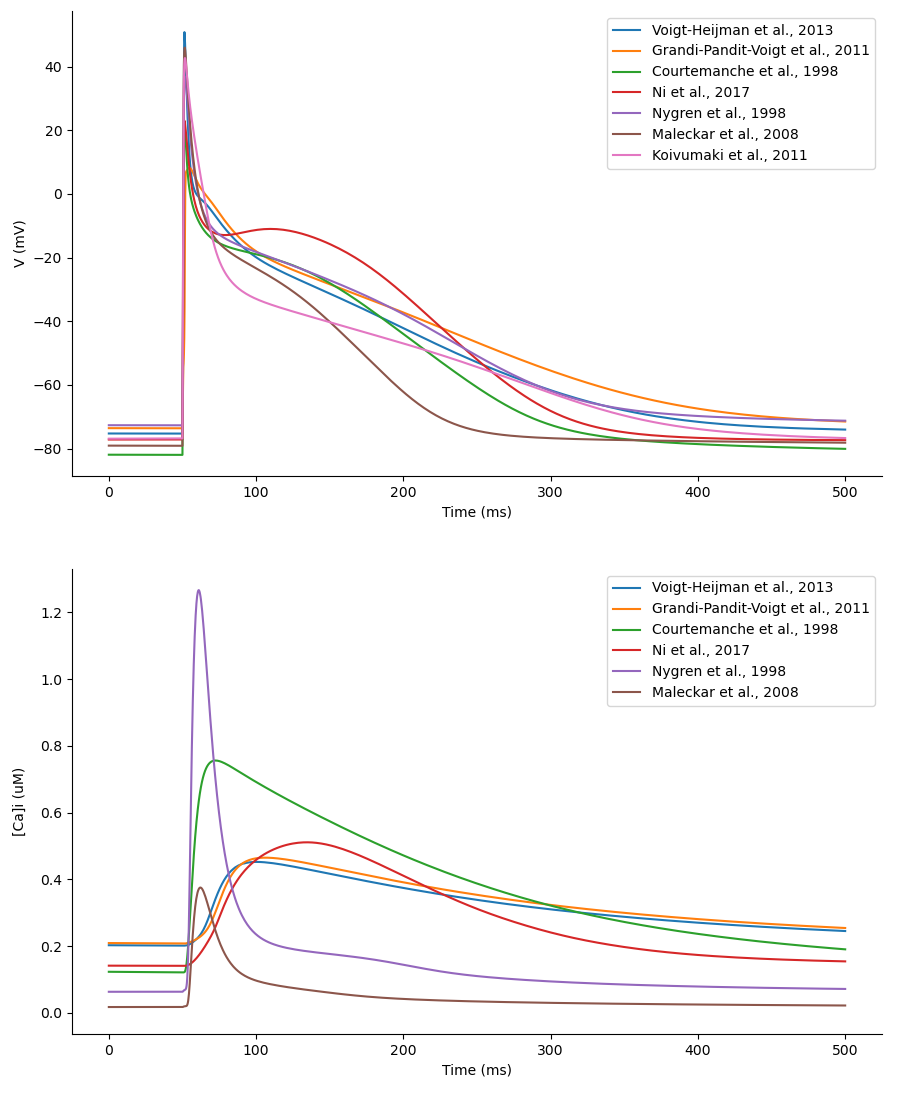
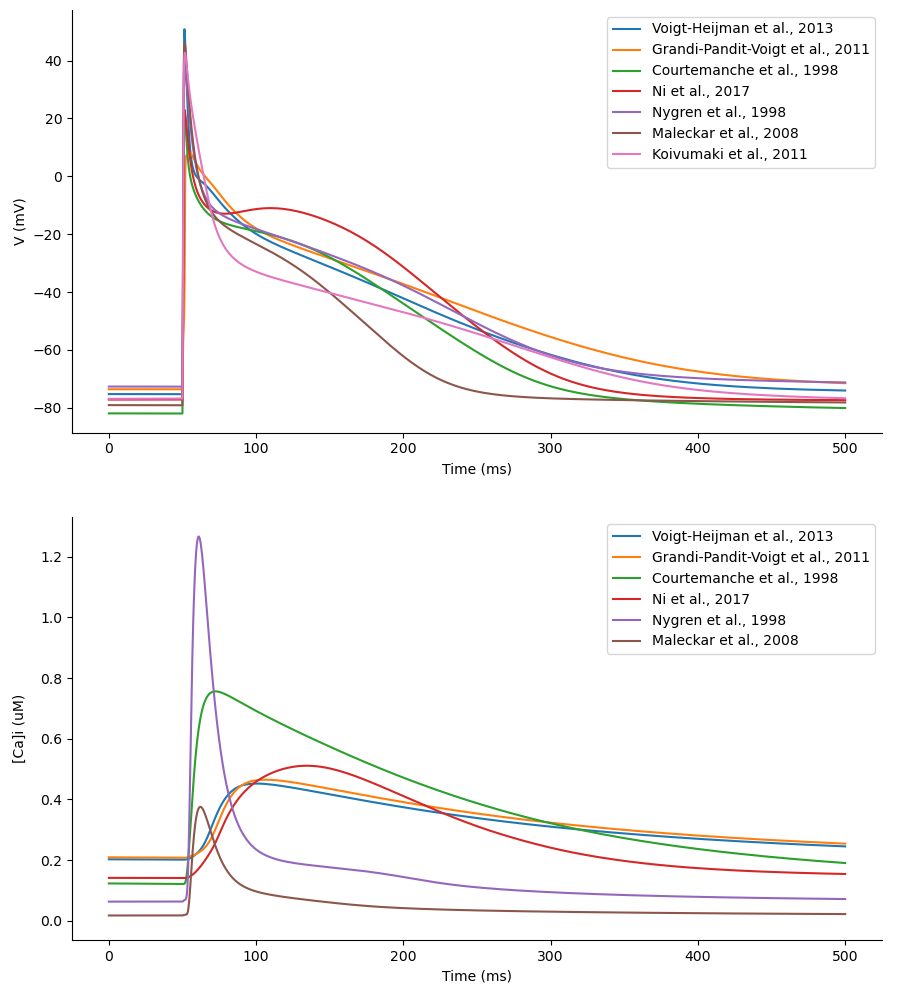
Slightly smaller figure s2

diff --git a/s2-ap-cat.py b/s2-ap-cat.py
@@ -30,7 +30,7 @@ for model in models:
 tmax = 500
 
 # Create figure
-fig = plt.figure(figsize=(9, 11))    # Two-column size
+fig = plt.figure(figsize=(9, 10))    # Two-column size
 fig.subplots_adjust(0.08, 0.06, 0.98, 0.99, hspace=0.2)
 grid = matplotlib.gridspec.GridSpec(2, 1)
 
